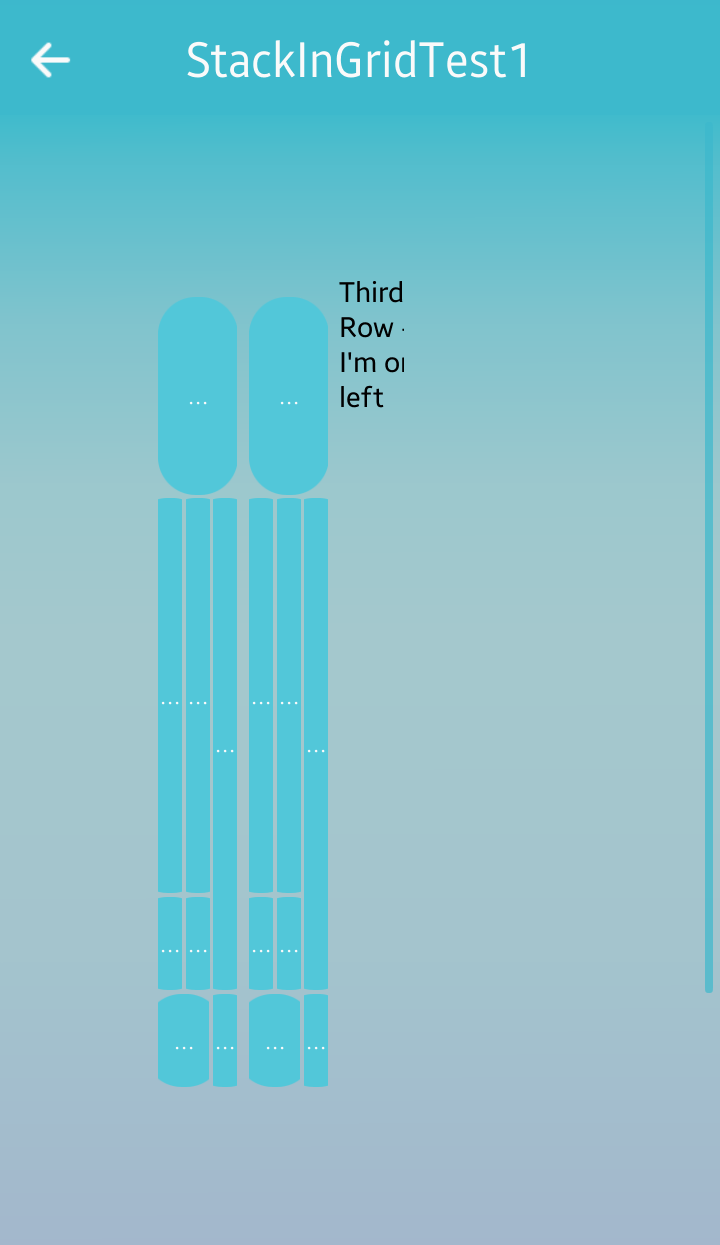
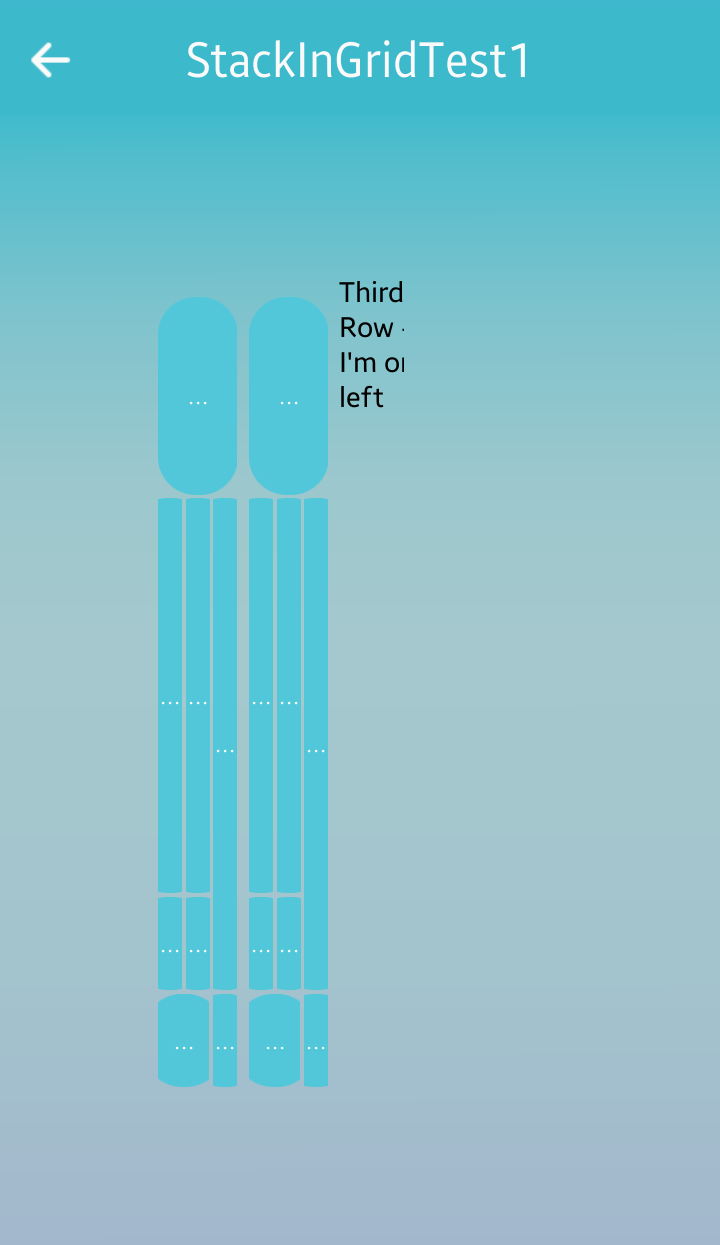
Update TC

Changed region(s): [[0.9778, 0.1526, 1.0, 0.7936]]

diff --git a/Appium.UITests/TC/NavigationPageAsyncTest1.cs b/Appium.UITests/TC/NavigationPageAsyncTest1.cs
@@ -48,7 +48,7 @@ namespace Appium.UITests
         public void PushPushTest()
         {
             var pushPushBtnId = "pushpush_1";
-            var popPopBtnId = "poppop_3";
+            //var popPopBtnId = "poppop_3";
 
             var depthBefore = GetNavigationStackDepth();
 
@@ -60,9 +60,9 @@ namespace Appium.UITests
             Driver.CheckScreenshot(image);
 
             //pop and pop issue
-            Driver.Click(popPopBtnId);
-            depthAfter = GetNavigationStackDepth();
-            Assert.True((depthBefore == depthAfter), "StackDepth should be decreased, but got before: " + depthBefore + ", after: " + depthAfter);
+            //Driver.Click(popPopBtnId);
+            //depthAfter = GetNavigationStackDepth();
+            //Assert.True((depthBefore == depthAfter), "StackDepth should be decreased, but got before: " + depthBefore + ", after: " + depthAfter);
 
             //screenshot crash app
             //var image2 = "NavigationPageAsyncTest1_pushPushPopPop2.png";

diff --git a/Appium.UITests/TC/ListViewTest11.cs b/Appium.UITests/TC/ListViewTest11.cs
@@ -5,7 +5,7 @@ namespace Appium.UITests
     [TestFixture]
     public class ListViewTest11 : TestTemplate
     {
-        [Test]
+        //[Test]
         public void HasUnevenRowsTrueTest()
         {
             var listId = "listView";
@@ -25,7 +25,7 @@ namespace Appium.UITests
             Assert.True((height == 300), "Height value should not be 300");
         }
 
-        [Test]
+        //[Test]
         public void HasUnevenRowsFalseTest()
         {
             var listId = "listView";

diff --git a/Appium.UITests/TC/ListViewTest9.cs b/Appium.UITests/TC/ListViewTest9.cs
@@ -5,7 +5,7 @@ namespace Appium.UITests
     [TestFixture]
     public class ListViewTest9 : TestTemplate
     {
-        [Test]
+        //[Test]
         public void HasUnevenRowsTrueTest()
         {
             var listId = "listView";
@@ -27,7 +27,7 @@ namespace Appium.UITests
             Assert.True((height == 300), "Height value should not be 300");
         }
 
-        [Test]
+        //[Test]
         public void HasUnevenRowsFalseTest()
         {
             var listId = "listView";

diff --git a/Appium.UITests/TC/TapGestureTest2.cs b/Appium.UITests/TC/TapGestureTest2.cs
@@ -14,7 +14,7 @@ namespace Appium.UITests
             Assert.AreEqual(rotation, 45);
         }
 
-        [Test]
+        //[Test]
         public void ScaleImageByTap()
         {
             Driver.Click("image", 0);
@@ -25,7 +25,7 @@ namespace Appium.UITests
             Assert.AreEqual(scale, 1.5);
         }
 
-        [Test]
+        //[Test]
         public void TurnedToOriginalStateByTap()
         {
             Driver.Click("image", 0);

diff --git a/Appium.UITests/TC/ImageTest.cs b/Appium.UITests/TC/ImageTest.cs
@@ -23,8 +23,8 @@ namespace Appium.UITests
             string ret = Driver.GetAttribute<string>("img", "Source");
             Assert.AreEqual(expect, ret);
 
-            var image = "ImageTest.png";
-            Driver.CheckScreenshot(image);
+            //var image = "ImageTest.png";
+            //Driver.CheckScreenshot(image);
         }
 
         [Test]

diff --git a/Appium.UITests/TC/StackInGridTest1.cs b/Appium.UITests/TC/StackInGridTest1.cs
@@ -9,6 +9,7 @@ namespace Appium.UITests
         public void ViewTest()
         {
             var image = "StackInGridTest1.png";
+            System.Threading.Thread.Sleep(1500);
             Driver.CheckScreenshot(image);
         }
     }

diff --git a/Appium.UITests/TC/PanGestureTest1.cs b/Appium.UITests/TC/PanGestureTest1.cs
@@ -6,7 +6,7 @@ namespace Appium.UITests
     [TestFixture]
     public class PanGestureTest1 : TestTemplate
     {
-        [Test]
+        //[Test]
         public void ViewTest()
         {
             var containerId = "panContainer";

diff --git a/Appium.UITests/TC/TapGestureTest3.cs b/Appium.UITests/TC/TapGestureTest3.cs
@@ -21,7 +21,7 @@ namespace Appium.UITests
             Assert.AreEqual(result, true);
         }
 
-        [Test]
+        //[Test]
         public void TapImageDouble()
         {
             bool result = false;

diff --git a/Limitation.md b/Limitation.md
@@ -27,6 +27,12 @@ Tizen Appium Limitation is as following.
     <th>Not selected</th>
   </tr>
   <tr align="left">
+    <th>ListView</th>
+    <th>Property</th>
+    <th>Height</th>
+    <th>Not supported</th>
+  </tr>
+  <tr align="left">
     <th>PanGesture</th>
     <th></th>
     <th></th>
@@ -55,6 +61,12 @@ Tizen Appium Limitation is as following.
     <th>Property</th>
     <th>SearchCommand</th>
     <th>Not selected</th>
+  </tr>
+  <tr align="left">
+    <th>TabGesture</th>
+    <th></th>
+    <th></th>
+    <th>Only single tap supported</th>
   </tr>
   <tr align="left">
     <th>ToolbarItems</th>
